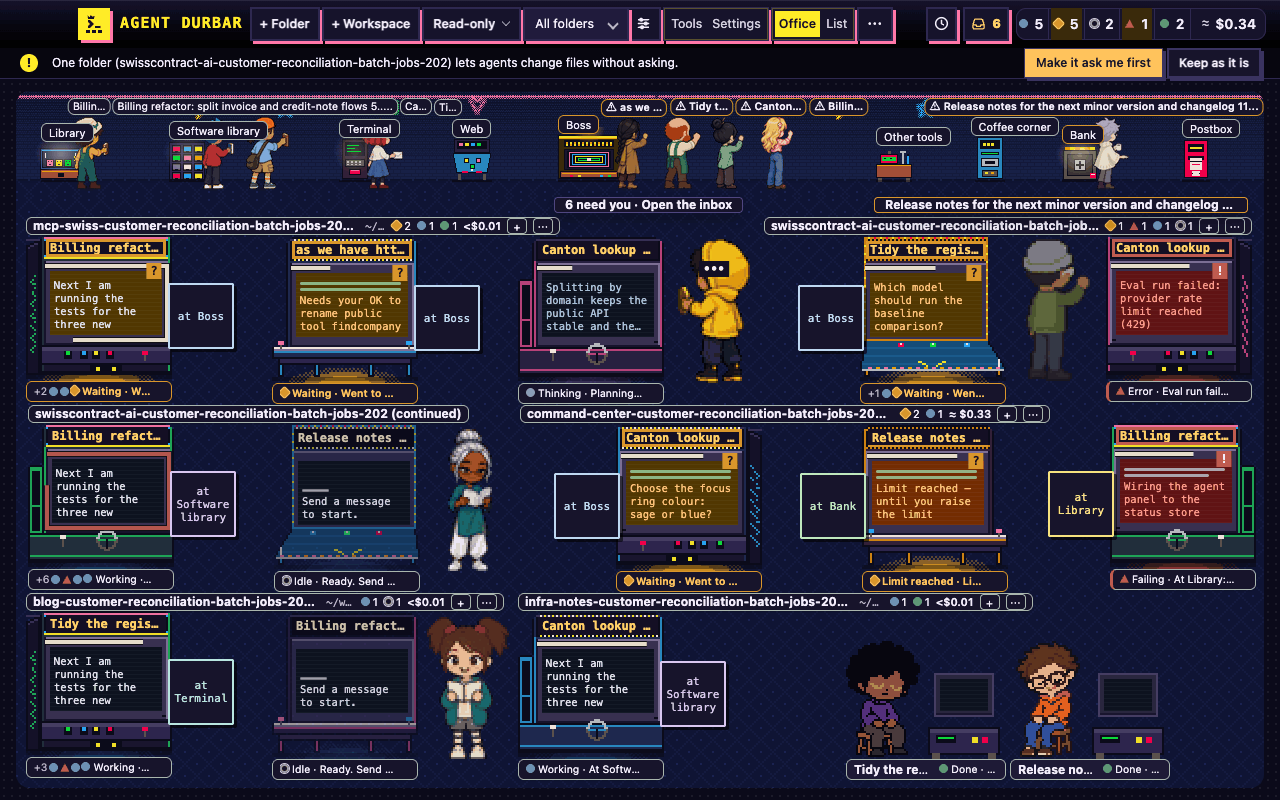
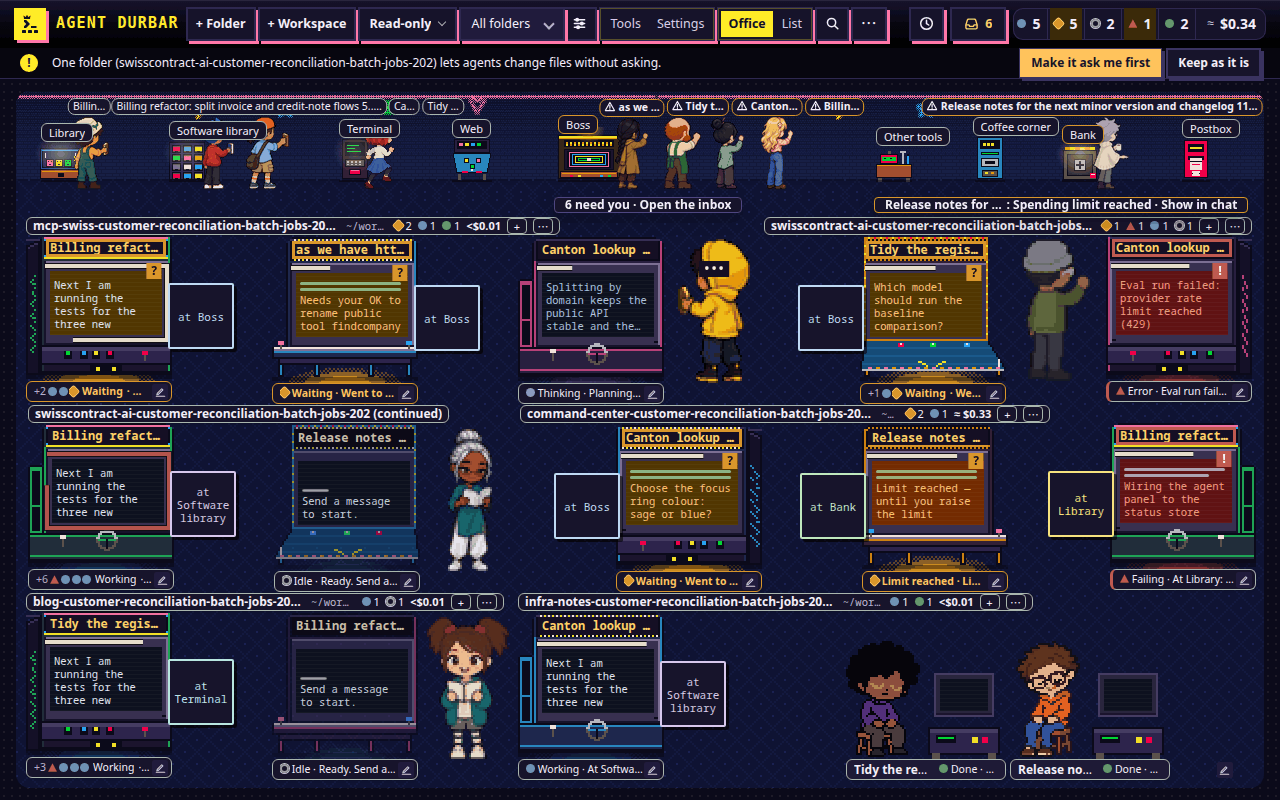
097 FR-359: the limit pill's ellipsis cuts only the name, the suffix stays whole; driver asserts it; pictures retaken

diff --git a/scripts/check-097-slip-plates.js b/scripts/check-097-slip-plates.js
@@ -55,6 +55,9 @@ module.exports = async (ctx) => {
     if (world === 'arcade') { /* the arcade draws only pills (Photo and cave may find room for every full slip) */
       assert.ok(await js(`document.querySelectorAll('#stage .ro-slip[data-variant="pill"]:not([hidden]) .ro-pill').length>0`), `${tag}: a pill is drawn to read the title of`);
       assert.deepStrictEqual(await js(`(()=>{const f=document.querySelector('#stage .ro').getBoundingClientRect().width;return [...document.querySelectorAll('#stage .ro-slip[data-variant="pill"]:not([hidden])')].filter(e=>e.getBoundingClientRect().width>0.3*f+1).map(e=>e.className+' '+Math.round(e.getBoundingClientRect().width)+' of '+Math.round(f))})()`), [], `${tag}: an arcade pill is at most 30% of the floor wide`);
+      /* FR-359 (review of #1545): only the name is cut by the ellipsis; the suffix ": Spending limit reached · Show in chat" lies whole inside the pill and the slip. Mutant 5: in realoffice.css make `.ro-slip .ro-pn{...}` only `white-space:nowrap` (no `overflow:hidden;text-overflow:ellipsis`: the long name is no longer the part that is cut, the button clips the suffix) fails `arcade 1440x900 long names: the limit pill's suffix is not clipped` (`flex:none` on the suffix and `min-width:0` on the name are belt and braces: removing either alone is not a mutant, a flex item with overflow:hidden has min size 0 and a nowrap suffix does not shrink). */
+      assert.deepStrictEqual(await js(`[...document.querySelectorAll('#stage .ro-slip.ro-limit[data-variant="pill"]:not([hidden]) .ro-pill')].flatMap(b=>{const s=b.querySelector('.ro-ps'),n=b.querySelector('.ro-pn');if(!s||!n)return ['no name/suffix spans'];const R=e=>e.getBoundingClientRect(),sr=R(s),br=R(b),sl=R(b.closest('.ro-slip'));return (sr.right>br.right+0.5||sr.right>sl.right+0.5||(()=>{const g=document.createRange();g.selectNodeContents(s);return g.getBoundingClientRect().right>br.right+0.5})())?['suffix right '+Math.round(sr.right)+' pill right '+Math.round(br.right)+' slip right '+Math.round(sl.right)]:[]})`), [], `${tag}: the limit pill's suffix is not clipped`);
+      if (nq.simnames) assert.ok(await js(`[...document.querySelectorAll('#stage .ro-slip.ro-limit[data-variant="pill"]:not([hidden]) .ro-pn')].some(n=>n.scrollWidth>n.clientWidth+0.5)`), `${tag}: the long name is the part that the ellipsis cuts`);
     }
     if (process.env.SHOTS_OUT && world === 'arcade' && nq.simnames) await H.shot(path.join(process.env.SHOTS_OUT, `097-slip-pills-arcade-long-${w}x${h}.png`), { prep: 'mouse' });
     assert.deepStrictEqual(await js(COVERS), [], `${tag}: settled, no slip covers another slip, a plate, a sign, a chair label, a chip, a cue or a face`);

diff --git a/src/renderer/realoffice.js b/src/renderer/realoffice.js
@@ -876,7 +876,7 @@
         sig: [L.id, L.name, L.who, L.text, L.actions, L.input && [L.input.label, L.input.min, L.input.step, L.input.value]],
         fill: (e, v) => {
           e.setAttribute('role', 'group'); e.setAttribute('aria-label', 'Spending limit reached');
-          if (v === 'pill') { const t = L.name + ': Spending limit reached \u00B7 Show in chat'; e.appendChild(btn(t, t, 'ro-pill', /* spec 097 FR-359: the title is the whole text, for what the ellipsis cuts (the accessible name is the button's text) */ { slipact: 'open', slipid: L.id, slipfocus: 'limit' })); return; }
+          if (v === 'pill') { const sfx = ': Spending limit reached \u00B7 Show in chat', t = L.name + sfx, b = btn(t, t, 'ro-pill', /* spec 097 FR-359: the title is the whole text, for what the ellipsis cuts (the accessible name is the button's text) */ { slipact: 'open', slipid: L.id, slipfocus: 'limit' }); b.textContent = ''; const n = document.createElement('span'); n.className = 'ro-pn'; n.textContent = L.name; const x = document.createElement('span'); x.className = 'ro-ps'; x.textContent = sfx; b.appendChild(n); b.appendChild(x); /* FR-359: only the name span is cut by the ellipsis, the suffix stays whole */ e.appendChild(b); return; }
           e.appendChild(p('sl-h', L.who)); e.appendChild(p('sl-t', L.text));
           const row = document.createElement('div'); row.className = 'sl-act';
           if (L.input) { const i = document.createElement('input'); i.type = 'number'; i.className = 'limit-amt'; i.min = L.input.min; i.step = L.input.step; i.value = L.input.value; i.setAttribute('aria-label', L.input.label); row.appendChild(i); }

diff --git a/src/renderer/realoffice.css b/src/renderer/realoffice.css
@@ -255,6 +255,10 @@ button.ro-chip{font-family:inherit;margin:0}
 .ro-slip .sl-fold,.ro-slip .sl-more,.ro-slip .ro-pill{display:block;width:100%;margin:5px 0 0;padding:2px 0 0;text-align:left;font:inherit;font-size:11.5px;color:var(--muted);background:none;border:0;border-top:1px dashed var(--line);cursor:pointer;overflow:hidden;text-overflow:ellipsis;white-space:nowrap}
 .ro-slip .sl-more{font-weight:700;color:var(--ink)}
 .ro-slip .ro-pill{margin:0;border:0;padding:0;font-weight:700;color:var(--ink);font-size:12px}
+/* spec 097 FR-359: the limit pill's name is cut by an ellipsis, its suffix (": Spending limit reached · Show in chat") never */
+.ro-slip .ro-pill:has(.ro-pn){display:flex}
+.ro-slip .ro-pn{min-width:0;overflow:hidden;text-overflow:ellipsis;white-space:nowrap}
+.ro-slip .ro-ps{flex:none;white-space:nowrap}
 .ro-slip .linkbtn{font-size:12px}
 .ro-slip :is(button,input):focus-visible{outline:2px solid var(--focus);outline-offset:2px}
 .ro-slip[data-variant="pill"]{width:auto;padding:4px 12px}
